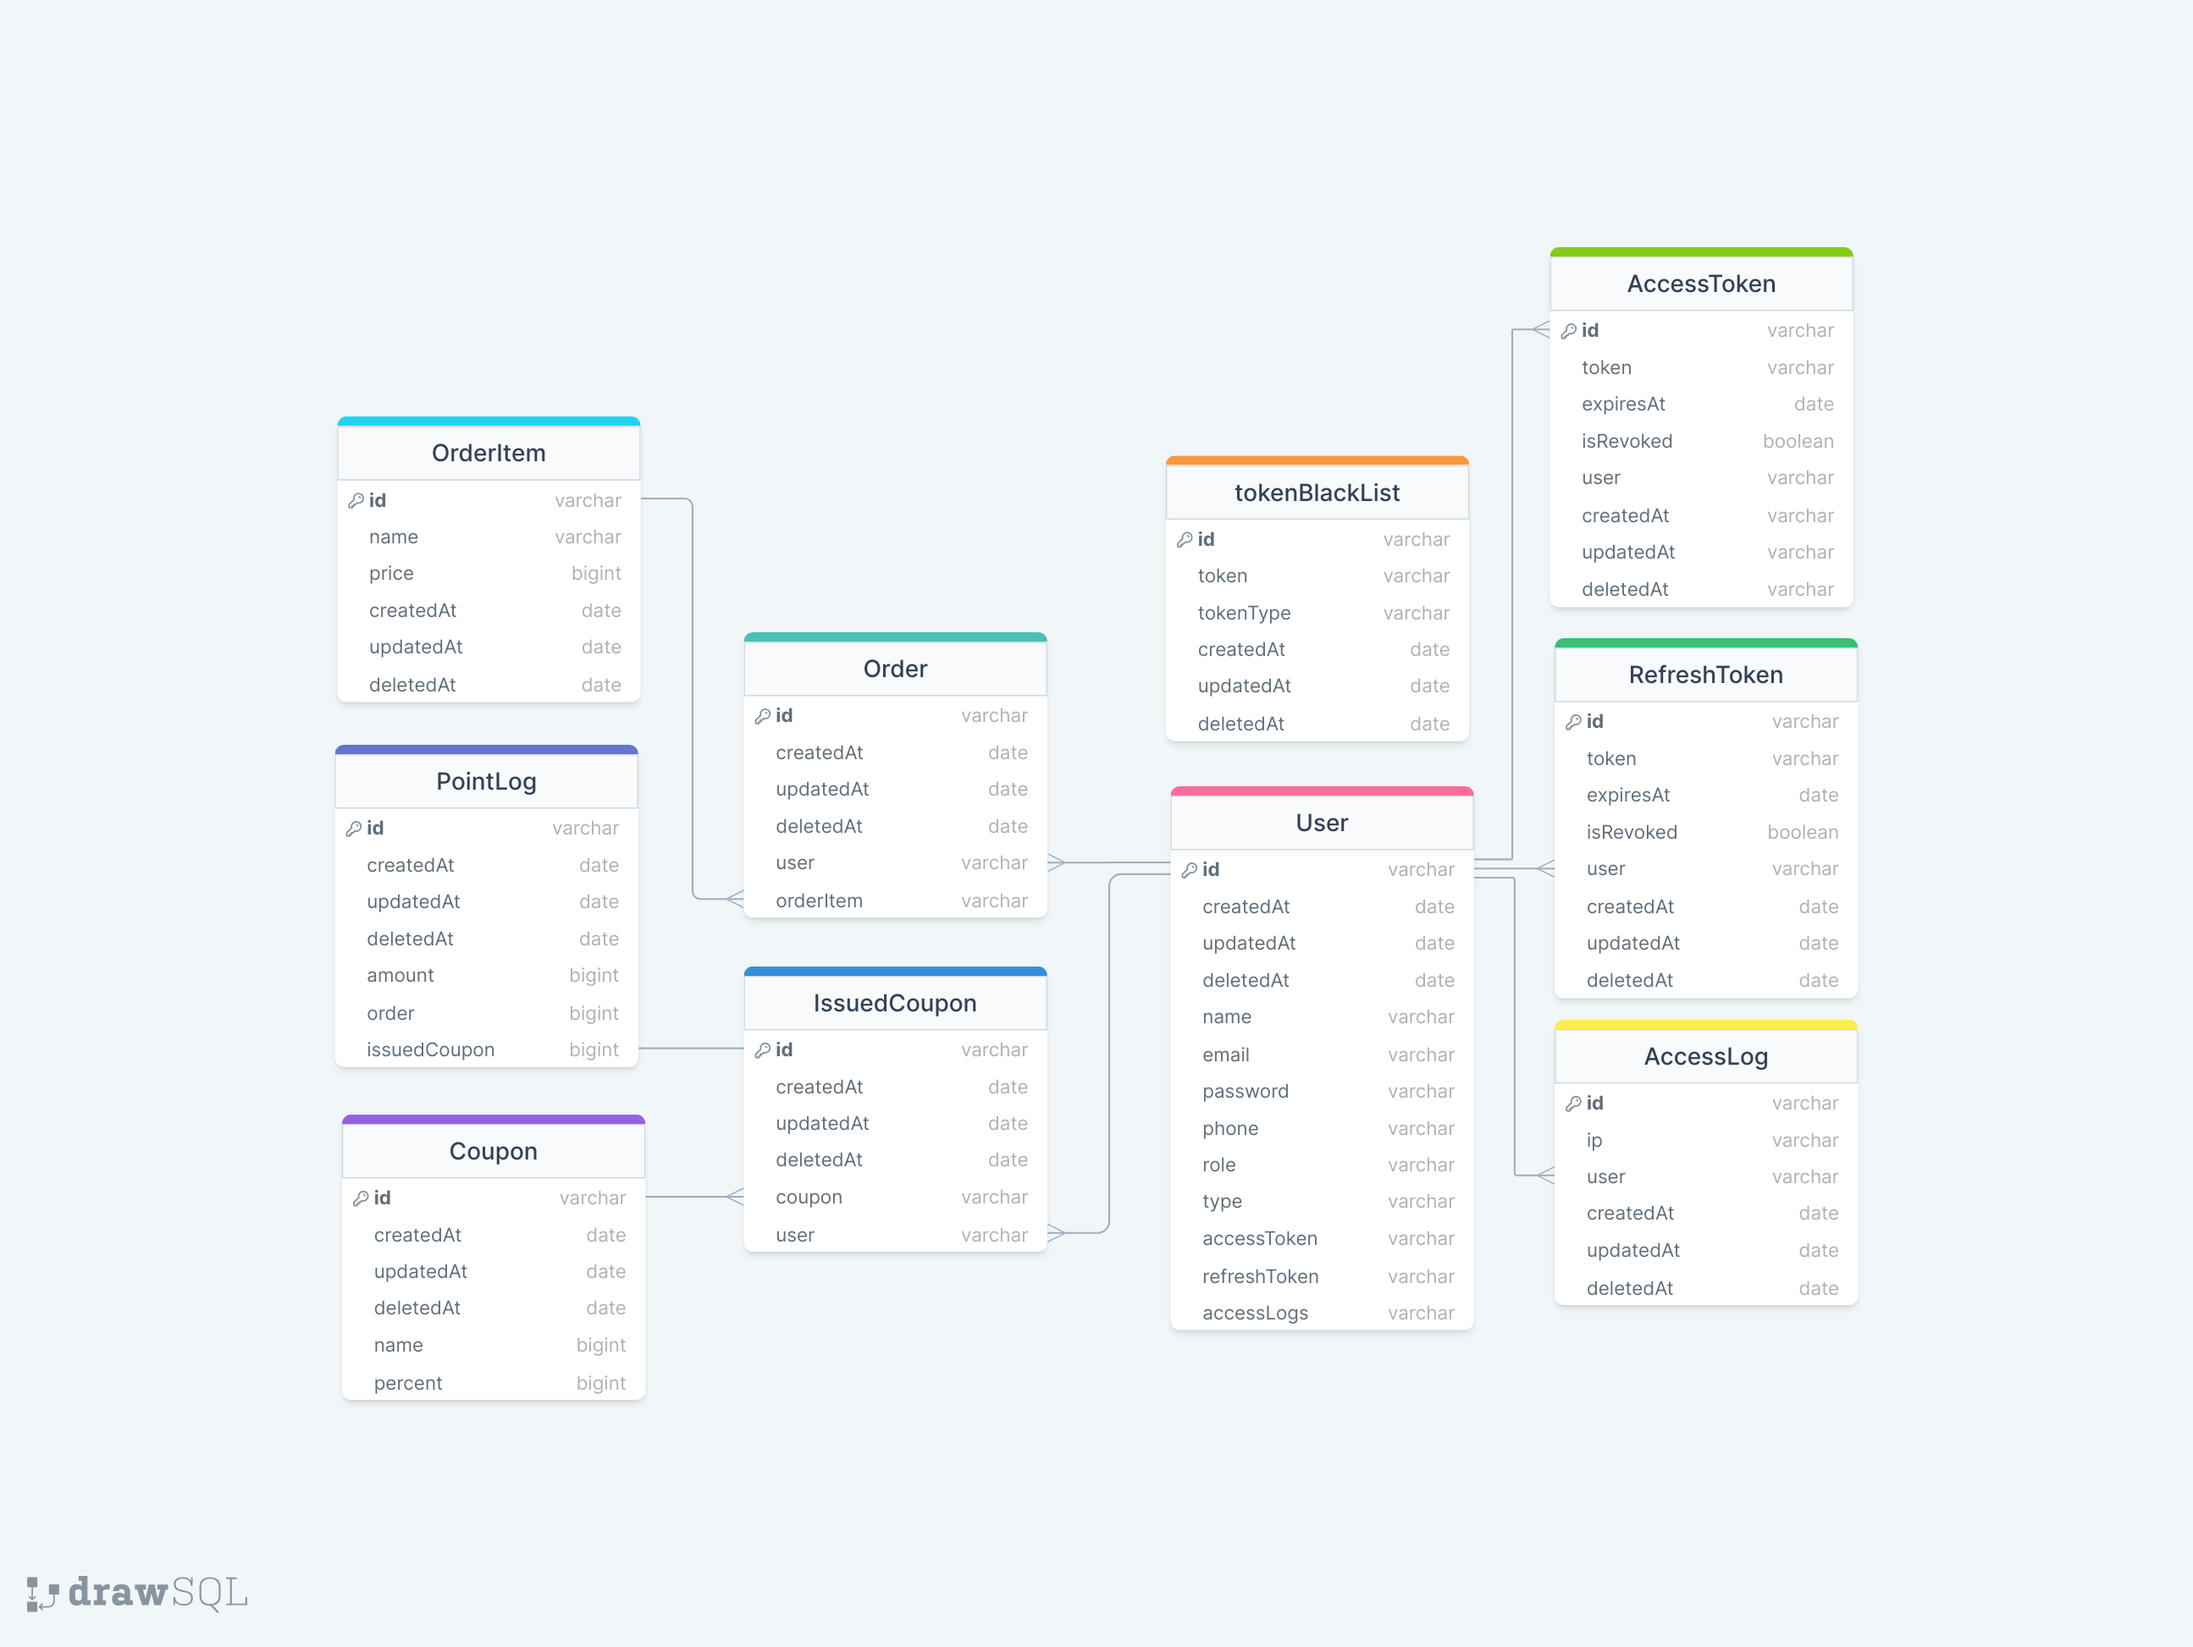
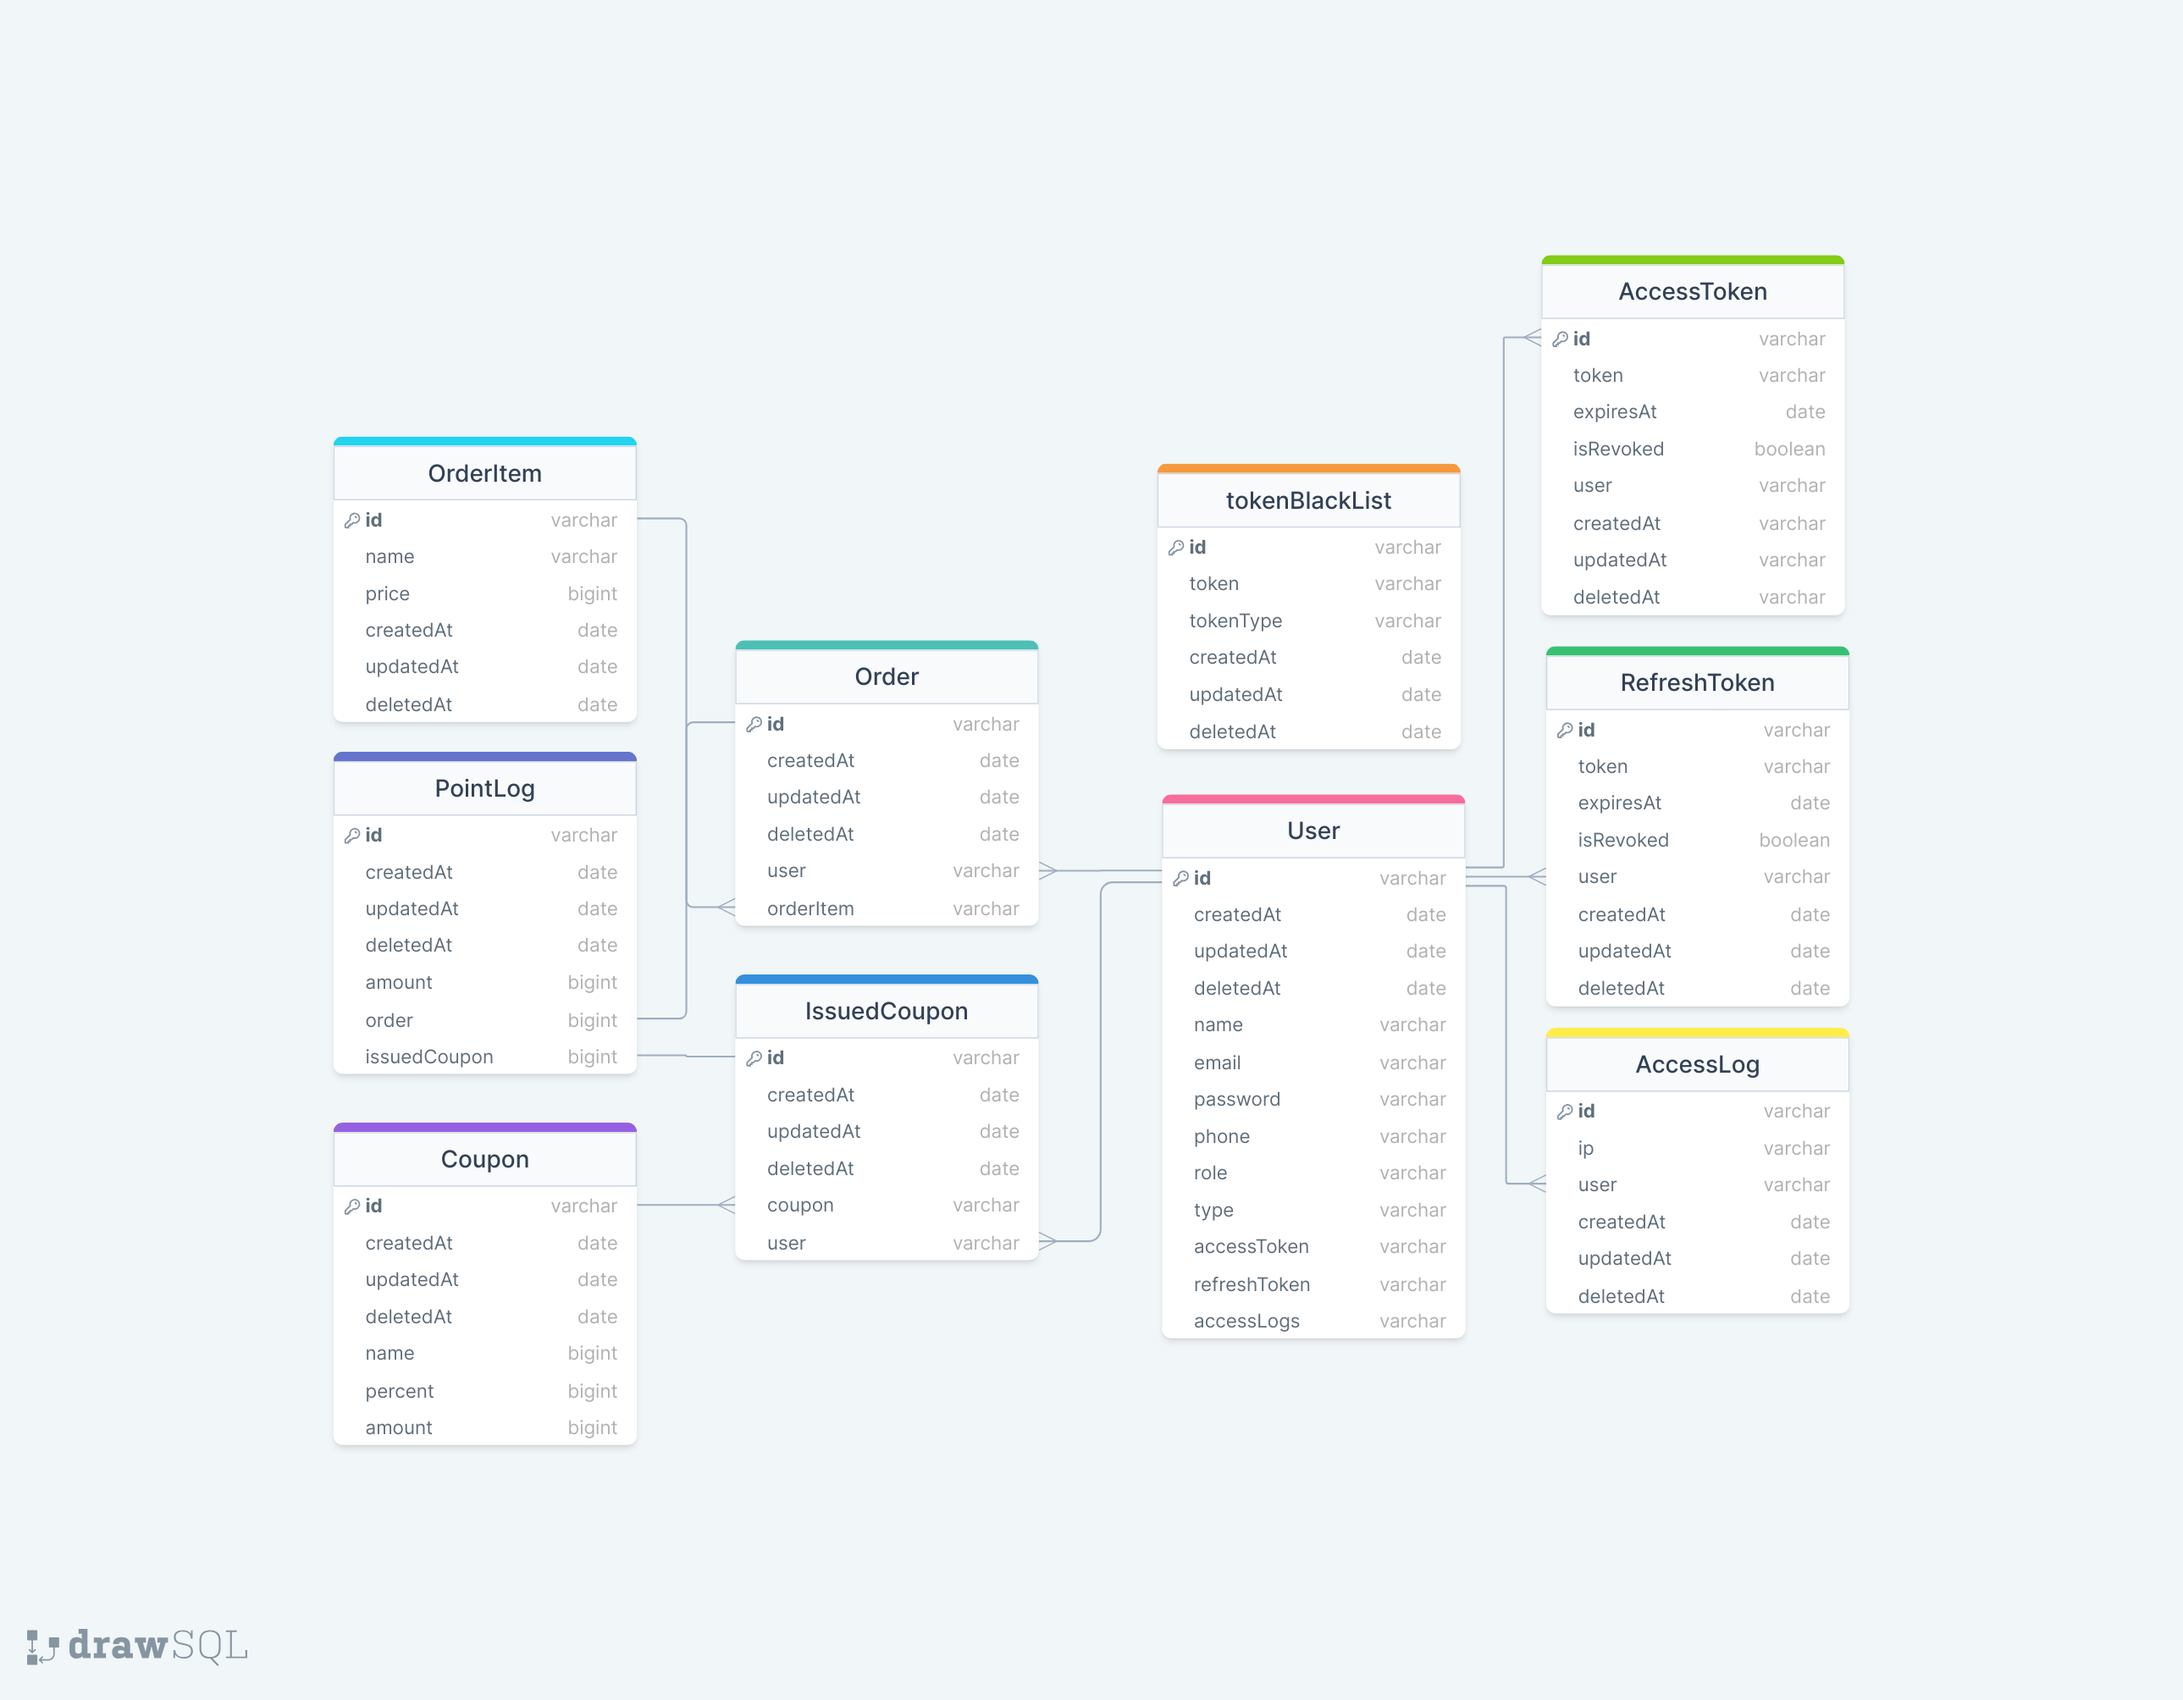
feat : Custom decorator를 이용하여 admin만 쿠폰 생성
- AuthGuard 의 CanActivate를 이용해서 Custom decorator를 생성
- 특정 Role을 가진 회원(admin)만 쿠폰 생성 API에 접근 가능하게 함.

diff --git a/src/auth/guard/auth.guard.ts b/src/auth/guard/auth.guard.ts
@@ -1,0 +1,46 @@
+import {
+  Injectable,
+  CanActivate,
+  ExecutionContext,
+  ForbiddenException,
+} from '@nestjs/common';
+import { Reflector } from '@nestjs/core';
+import { Observable } from 'rxjs';
+import { SetMetadata } from '@nestjs/common';
+import { JwtService } from '@nestjs/jwt';
+import dotenv from 'dotenv';
+
+dotenv.config();
+
+@Injectable()
+export class AuthGuard implements CanActivate {
+  constructor(
+    private readonly reflector: Reflector,
+    private readonly jwtService: JwtService,
+  ) {}
+
+  canActivate(
+    context: ExecutionContext,
+  ): boolean | Promise<boolean> | Observable<boolean> {
+    const roles = this.reflector.get<string[]>('roles', context.getHandler());
+
+    if (!roles) {
+      throw new ForbiddenException();
+    }
+
+    const request = context.switchToHttp().getRequest();
+
+    const token = request.headers.authorization;
+    const user = this.jwtService.verify(token);
+
+    if (!token || !user) {
+      throw new ForbiddenException();
+    }
+
+    const hasRole = () => roles.includes(user.role);
+
+    return hasRole();
+  }
+}
+
+export const Roles = (...roles: string[]) => SetMetadata('roles', roles);

diff --git a/src/payment/repositories/coupon.repository.ts b/src/payment/repositories/coupon.repository.ts
@@ -1,0 +1,25 @@
+import { Injectable } from '@nestjs/common';
+import { InjectEntityManager, InjectRepository } from '@nestjs/typeorm';
+import { Coupon } from '../entities/coupon.entity';
+import { EntityManager, Repository } from 'typeorm';
+import { CreateCouponDto } from '../dto/create-coupon.dto';
+
+@Injectable()
+export class CouponRepository extends Repository<Coupon> {
+  constructor(
+    @InjectRepository(Coupon)
+    private readonly repo: Repository<Coupon>,
+    @InjectEntityManager()
+    private readonly entityManager: EntityManager,
+  ) {
+    super(repo.target, repo.manager, repo.queryRunner);
+  }
+
+  async createCoupon(createCouponDto: CreateCouponDto) {
+    const coupon = new Coupon();
+    coupon.name = createCouponDto.name;
+    coupon.amount = createCouponDto.amount;
+    coupon.percent = createCouponDto.percent;
+    return this.repo.save(coupon);
+  }
+}

diff --git a/src/payment/controllers/coupon.controller.ts b/src/payment/controllers/coupon.controller.ts
@@ -1,0 +1,17 @@
+import { Body, Controller, Post, UseGuards } from '@nestjs/common';
+import { CouponService } from '../services/coupon.service';
+import { CreateCouponDto } from '../dto/create-coupon.dto';
+import { AuthGuard } from '@nestjs/passport';
+import { Roles } from 'src/auth/guard/auth.guard';
+
+@Controller('api/coupon')
+export class AuthController {
+  constructor(private readonly couponService: CouponService) {}
+
+  @Post()
+  @UseGuards(AuthGuard)
+  @Roles('admin')
+  async createCoupon(@Body() createCouponDto: CreateCouponDto) {
+    return this.couponService.createCoupon(createCouponDto);
+  }
+}

diff --git a/src/payment/entities/order.entity.ts b/src/payment/entities/order.entity.ts
@@ -1,0 +1,17 @@
+import { Entity, ManyToOne, OneToOne } from 'typeorm';
+import { User } from 'src/auth/entities';
+import { BaseEntity } from 'src/common/enitty';
+import { OrderItem } from './orderItem.entity';
+import { PointLog } from './point-log.entity';
+
+@Entity()
+export class Order extends BaseEntity {
+  @ManyToOne(() => User, user => user.id)
+  user: User;
+
+  @ManyToOne(() => OrderItem, orderitem => orderitem.id)
+  orderitem: OrderItem;
+
+  @OneToOne(() => PointLog, pointlog => pointlog.order)
+  pointlog: PointLog[];
+}

diff --git a/src/payment/entities/issued-coupon.entity.ts b/src/payment/entities/issued-coupon.entity.ts
@@ -1,0 +1,17 @@
+import { Entity, ManyToOne, OneToOne } from 'typeorm';
+import { User } from 'src/auth/entities';
+import { BaseEntity } from 'src/common/enitty';
+import { Coupon } from './coupon.entity';
+import { PointLog } from './point-log.entity';
+
+@Entity()
+export class IssuedCoupon extends BaseEntity {
+  @ManyToOne(() => User, user => user.id)
+  user: User;
+
+  @ManyToOne(() => Coupon, coupon => coupon.id)
+  coupon: Coupon;
+
+  @OneToOne(() => PointLog, pointlog => pointlog.issuedCoupon)
+  pointlog: PointLog[];
+}

diff --git a/src/payment/payment.module.ts b/src/payment/payment.module.ts
@@ -1,0 +1,20 @@
+import { Module } from '@nestjs/common';
+
+import { TypeOrmModule } from '@nestjs/typeorm';
+import { User } from 'src/auth/entities';
+import { JwtModule } from '@nestjs/jwt';
+import dotenv from 'dotenv';
+import { RedisModule } from 'src/common/redis';
+
+dotenv.config();
+
+@Module({
+  imports: [
+    JwtModule.register({ secret: process.env.JWT_SECRET }),
+    TypeOrmModule.forFeature([User]),
+  ],
+  controllers: [],
+  providers: [RedisModule],
+  exports: [RedisModule],
+})
+export class AuthModule {}

diff --git a/src/payment/entities/coupon.entity.ts b/src/payment/entities/coupon.entity.ts
@@ -1,0 +1,18 @@
+import { Column, Entity, OneToMany } from 'typeorm';
+import { IssuedCoupon } from './issued-coupon.entity';
+import { BaseEntity } from 'src/common/enitty';
+
+@Entity()
+export class Coupon extends BaseEntity {
+  @Column({ type: 'varchar' })
+  name: string;
+
+  @Column({ type: 'bigint', default: 0 })
+  percent: number;
+
+  @Column({ type: 'bigint', default: 0 })
+  amount: number;
+
+  @OneToMany(() => IssuedCoupon, issuedCoupon => issuedCoupon.coupon)
+  issuedCoupon: IssuedCoupon[];
+}

diff --git a/src/payment/entities/point-log.entity.ts b/src/payment/entities/point-log.entity.ts
@@ -1,0 +1,16 @@
+import { BaseEntity } from 'src/common/enitty';
+import { Column, Entity, OneToOne } from 'typeorm';
+import { Order } from './order.entity';
+import { IssuedCoupon } from './issued-coupon.entity';
+
+@Entity()
+export class PointLog extends BaseEntity {
+  @Column({ type: 'bigint', default: 0 })
+  amount: number;
+
+  @OneToOne(() => Order, order => order.id)
+  order: Order[];
+
+  @OneToOne(() => IssuedCoupon, issuedCoupon => issuedCoupon.id)
+  issuedCoupon: IssuedCoupon[];
+}

diff --git a/src/payment/services/coupon.service.ts b/src/payment/services/coupon.service.ts
@@ -1,0 +1,12 @@
+import { Injectable } from '@nestjs/common';
+import { CouponRepository } from '../repositories/coupon.repository';
+import { CreateCouponDto } from '../dto/create-coupon.dto';
+
+@Injectable()
+export class CouponService {
+  constructor(private readonly couponRepository: CouponRepository) {}
+
+  async createCoupon(createCouponDto: CreateCouponDto) {
+    return await this.couponRepository.createCoupon(createCouponDto);
+  }
+}

diff --git a/src/payment/entities/orderItem.entity.ts b/src/payment/entities/orderItem.entity.ts
@@ -1,0 +1,15 @@
+import { Column, Entity, OneToMany } from 'typeorm';
+import { BaseEntity } from 'src/common/enitty';
+import { Order } from './order.entity';
+
+@Entity()
+export class OrderItem extends BaseEntity {
+  @Column({ type: 'varchar' })
+  name: string;
+
+  @Column({ type: 'bigint', default: 0 })
+  price: number;
+
+  @OneToMany(() => Order, order => order.id)
+  order: Order[];
+}

diff --git a/src/payment/dto/create-coupon.dto.ts b/src/payment/dto/create-coupon.dto.ts
@@ -1,0 +1,15 @@
+import { IsNotEmpty, IsNumber, IsOptional, IsString } from 'class-validator';
+
+export class CreateCouponDto {
+  @IsString()
+  @IsNotEmpty()
+  readonly name: string;
+
+  @IsNumber()
+  @IsOptional()
+  readonly percent: number;
+
+  @IsNumber()
+  @IsOptional()
+  readonly amount: number;
+}

diff --git a/src/payment/dto/create-orderitem.dto.ts b/src/payment/dto/create-orderitem.dto.ts
@@ -1,0 +1,11 @@
+import { IsNotEmpty, IsNumber, IsString } from 'class-validator';
+
+export class CreateOrderItemDto {
+  @IsString()
+  @IsNotEmpty()
+  readonly name: string;
+
+  @IsNumber()
+  @IsNotEmpty()
+  readonly price: number;
+}
